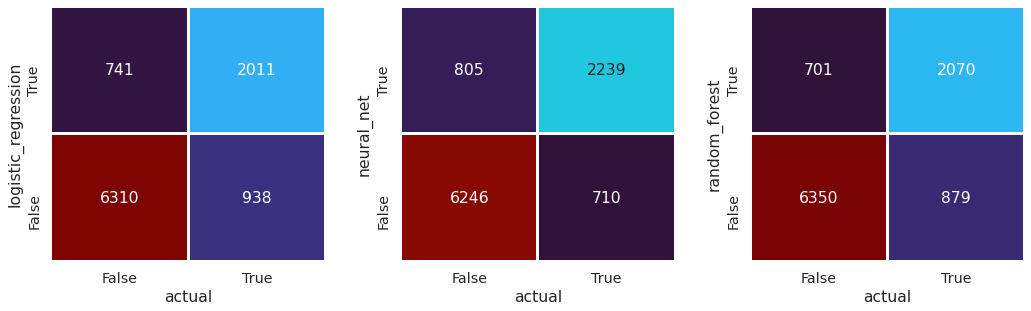
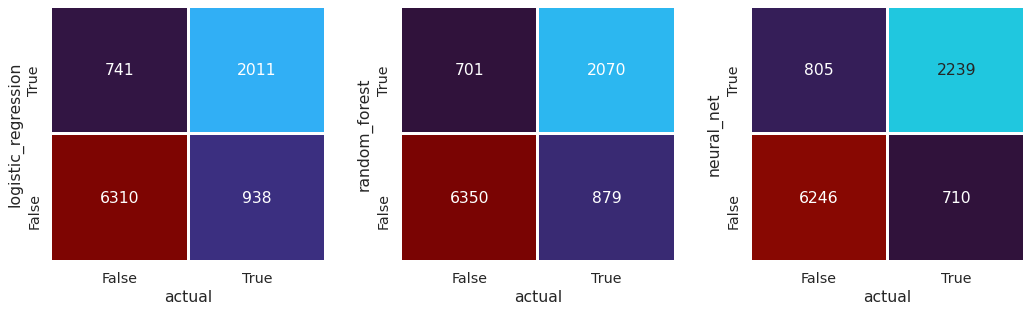
Update documentation

diff --git a/ensemble/compare_model_outputs.html b/ensemble/compare_model_outputs.html
@@ -968,8 +968,8 @@ Ivert the y axis so that it has the same order as the scatter plots above (i.e. 
 <div class="cell docutils container">
 <div class="cell_input docutils container">
 <div class="highlight-ipython3 notranslate"><div class="highlight"><pre><span></span><span class="n">model_pairings</span> <span class="o">=</span> <span class="p">[[</span><span class="s2">&quot;logistic_regression&quot;</span><span class="p">,</span><span class="s2">&quot;actual&quot;</span><span class="p">],</span>
-                  <span class="p">[</span><span class="s2">&quot;neural_net&quot;</span><span class="p">,</span> <span class="s2">&quot;actual&quot;</span><span class="p">],</span>
-                  <span class="p">[</span><span class="s2">&quot;random_forest&quot;</span><span class="p">,</span><span class="s2">&quot;actual&quot;</span><span class="p">]]</span>
+                  <span class="p">[</span><span class="s2">&quot;random_forest&quot;</span><span class="p">,</span><span class="s2">&quot;actual&quot;</span><span class="p">],</span>
+                  <span class="p">[</span><span class="s2">&quot;neural_net&quot;</span><span class="p">,</span> <span class="s2">&quot;actual&quot;</span><span class="p">]]</span>
 
 <span class="n">v_min</span><span class="p">,</span> <span class="n">v_max</span> <span class="o">=</span> <span class="n">get_min_max_cm</span><span class="p">(</span><span class="n">df_prediction</span><span class="p">,</span> <span class="n">model_pairings</span><span class="p">)</span>
 </pre></div>
